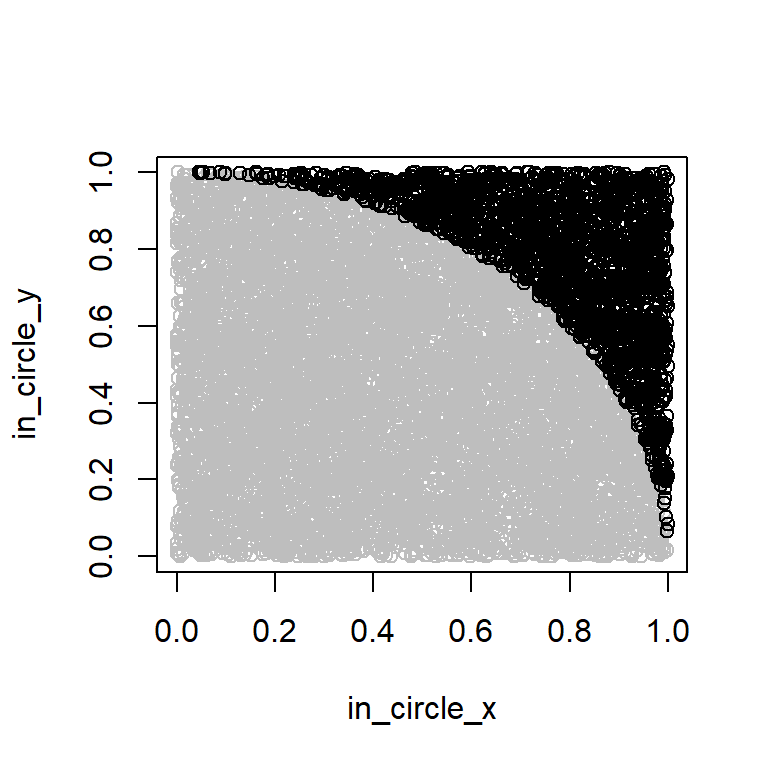
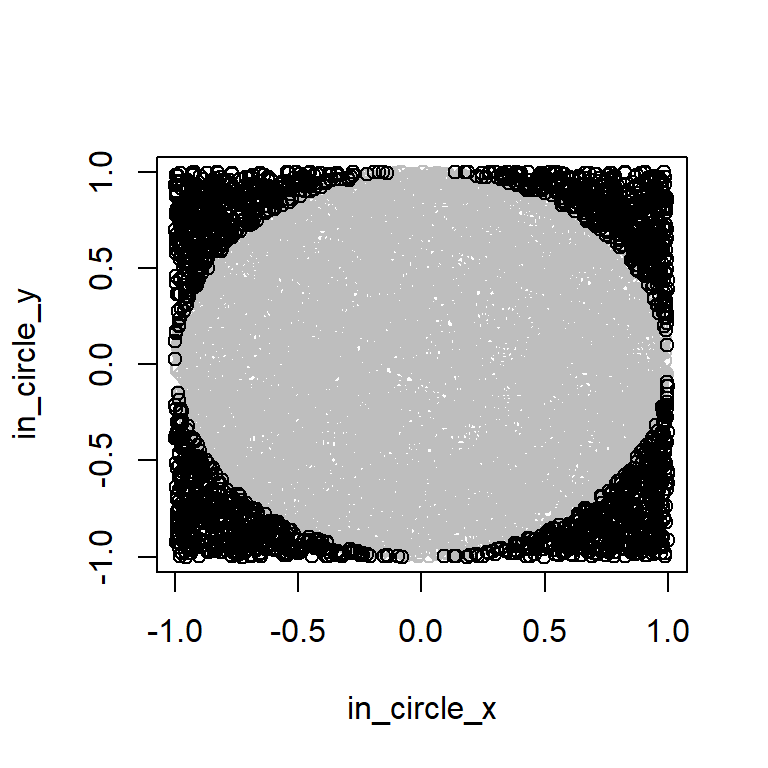
Built site for gh-pages

diff --git a/Lab4/Lab4.html b/Lab4/Lab4.html
@@ -188,7 +188,11 @@ window.Quarto = {
   <li><a href="#lab-4" id="toc-lab-4" class="nav-link active" data-scroll-target="#lab-4">Lab 4</a>
   <ul class="collapse">
   <li><a href="#question-1" id="toc-question-1" class="nav-link" data-scroll-target="#question-1">Question 1</a></li>
-  <li><a href="#question-2-central-limit-theorem-simulation" id="toc-question-2-central-limit-theorem-simulation" class="nav-link" data-scroll-target="#question-2-central-limit-theorem-simulation">Question 2 Central Limit Theorem Simulation</a></li>
+  <li><a href="#question-2-create-a-function-to-add-an-additional-row-to-the-anova-table-output." id="toc-question-2-create-a-function-to-add-an-additional-row-to-the-anova-table-output." class="nav-link" data-scroll-target="#question-2-create-a-function-to-add-an-additional-row-to-the-anova-table-output.">Question 2 Create a function to add an additional row to the ANOVA table output.</a>
+  <ul class="collapse">
+  <li><a href="#anova-output-for-pg.mod" id="toc-anova-output-for-pg.mod" class="nav-link" data-scroll-target="#anova-output-for-pg.mod">anova() output for PG.mod</a></li>
+  <li><a href="#anova_tab-output-for-pg.mod" id="toc-anova_tab-output-for-pg.mod" class="nav-link" data-scroll-target="#anova_tab-output-for-pg.mod">anova_tab() output for PG.mod</a></li>
+  </ul></li>
   </ul></li>
   </ul>
 </nav>
@@ -203,14 +207,14 @@ window.Quarto = {
 <h1>Lab 4</h1>
 <section id="question-1" class="level2">
 <h2 class="anchored" data-anchor-id="question-1">Question 1</h2>
-<p>Estimate the value of <span class="math inline">\(\pi\)</span> by using probability simulation</p>
+<p>Estimate the value of <span class="math inline">\(\pi\)</span> by using probability simulation.</p>
 <ol type="a">
-<li><strong>[20 pts]</strong> Please take random <span class="math inline">\(n\)</span> points (say, <span class="math inline">\(n=10000\)</span>) with in the [0, 1] * [0, 1] square in the Cartesian coordinate system. Then determine if the point is in the upper right quarter circle centered at the origin of radius 1. Calculate the probability of fall in the quarter-circle, which should be close to <span class="math inline">\(\frac{\pi}{4}\)</span>.</li>
+<li><strong>[20 pts]</strong> Use <code>set.seed(10)</code>. Please generate a set of <span class="math inline">\(n = 10,000\)</span> random points <span class="math inline">\((x_i, y_i)\)</span>, within the square defined by the Cartesian coordinates <span class="math inline">\([-1, 1] \times [-1, 1]\)</span> . For each point, check if it lies inside a circle with radius 1 centered at the origin. Store the <span class="math inline">\(x\)</span>- and <span class="math inline">\(y\)</span>-coordinates of points inside the circle in vectors <code>in_circle_x</code> and <code>in_circle_y</code>, respectively. Similarly, store the coordinates of points outside the circle in vectors <code>out_circle_x</code> and <code>out_circle_y</code>.</li>
 </ol>
 <p>[Hints:</p>
 <ol type="1">
-<li>You may use <code>runif()</code> for taking the random points.</li>
-<li>You may use <strong>if…else</strong> statement and <strong>for</strong> loop.]</li>
+<li>You may use <code>runif()</code> for taking the random points. Use <code>?runif()</code> if needed.</li>
+<li>You may use <strong>if…else</strong> statement and <strong>for</strong> loop for this question.]</li>
 </ol>
 <div style="height:10px;">
 
@@ -218,7 +222,7 @@ window.Quarto = {
 <ol start="2" type="a">
 <li><strong>[10 pts]</strong> Draw the simulation points using <code>plot()</code> and <code>points()</code> by coloring the in-circle points <strong>blue</strong> and out-circle points <strong>orange</strong>.</li>
 </ol>
-<p>The plot should be something looks like</p>
+<p>The plot should be resemble something like this with the required color.</p>
 <div class="cell">
 <div class="cell-output-display">
 <div>
@@ -228,96 +232,160 @@ window.Quarto = {
 </div>
 </div>
 </div>
-<p>[Hint: The following example might be helpful.]</p>
-<div class="cell">
-<div class="sourceCode cell-code" id="cb1"><pre class="sourceCode r code-with-copy"><code class="sourceCode r"><span id="cb1-1"><a href="#cb1-1" aria-hidden="true" tabindex="-1"></a><span class="co"># Generate some data</span></span>
-<span id="cb1-2"><a href="#cb1-2" aria-hidden="true" tabindex="-1"></a>x <span class="ot">=</span> <span class="dv">1</span><span class="sc">:</span><span class="dv">10</span></span>
-<span id="cb1-3"><a href="#cb1-3" aria-hidden="true" tabindex="-1"></a>y <span class="ot">=</span> <span class="dv">1</span> <span class="sc">+</span> x</span>
-<span id="cb1-4"><a href="#cb1-4" aria-hidden="true" tabindex="-1"></a>u <span class="ot">=</span> <span class="dv">1</span><span class="sc">:</span><span class="dv">10</span></span>
-<span id="cb1-5"><a href="#cb1-5" aria-hidden="true" tabindex="-1"></a>v <span class="ot">=</span> <span class="dv">12</span> <span class="sc">-</span> u</span>
-<span id="cb1-6"><a href="#cb1-6" aria-hidden="true" tabindex="-1"></a></span>
-<span id="cb1-7"><a href="#cb1-7" aria-hidden="true" tabindex="-1"></a><span class="co"># Use plot() and points()</span></span>
-<span id="cb1-8"><a href="#cb1-8" aria-hidden="true" tabindex="-1"></a><span class="fu">plot</span>(x, y, <span class="at">col =</span> <span class="st">"blue"</span>) <span class="co"># Draw points with coordinates (x, y)</span></span>
-<span id="cb1-9"><a href="#cb1-9" aria-hidden="true" tabindex="-1"></a><span class="fu">points</span>(u, v, <span class="at">col =</span> <span class="st">"orange"</span>) <span class="co"># Add points to the plot above.</span></span></code><button title="Copy to Clipboard" class="code-copy-button"><i class="bi"></i></button></pre></div>
-<div class="cell-output-display">
-<div>
-<figure class="figure">
-<p><img src="Lab4_files/figure-html/unnamed-chunk-3-1.png" style="width:30.0%;height:30.0%" class="figure-img"></p>
-</figure>
-</div>
-</div>
-</div>
+<p>[Hints:</p>
+<ol type="1">
+<li>Use <code>plot()</code> to draw points.</li>
+<li>Use <code>points()</code> to add points to the plot above.</li>
+<li>Use <code>col = "blue"</code> and <code>col = "orange"</code> for the colors. ]</li>
+</ol>
+<!-- ```{r, fig.width=4, fig.height=4} -->
+<!-- # Generate some data -->
+<!-- x = 1:10 -->
+<!-- y = 1 + x -->
+<!-- u = 1:10 -->
+<!-- v = 12 - u -->
+<!-- # Use plot() and points() -->
+<!-- plot(x, y, col = "blue") # Draw points with coordinates (x, y) -->
+<!-- points(u, v, col = "orange") # Add points to the plot above. -->
+<!-- ``` -->
 <div style="height:10px;">
 
 </div>
 <ol start="3" type="a">
-<li><strong>[5 pts]</strong> Based on the probability calculated in (a), estimate the value of <span class="math inline">\(\pi\)</span>.</li>
+<li><strong>[10 pts]</strong> Complete the blanks below.</li>
+</ol>
+<!-- for calculating the probability of a point falling within the circle. -->
+<p>There are two different ways to calculate the probability of points fall in the circle.</p>
+<p>: The probability <span class="math inline">\(= \frac{\text{Number of points in the in\_circle\_x (or in\_circle\_y)}}{\text{Total number of points in x (or y)}}\)</span>.</p>
+<div class="cell">
+<div class="sourceCode cell-code" id="cb1"><pre class="sourceCode r code-with-copy"><code class="sourceCode r"><span id="cb1-1"><a href="#cb1-1" aria-hidden="true" tabindex="-1"></a><span class="do">### Use R code to find the probability using Method I</span></span></code><button title="Copy to Clipboard" class="code-copy-button"><i class="bi"></i></button></pre></div>
+</div>
+<p>: The probability <span class="math inline">\(=\frac{\text{Area of circle}}{\text{Area of square}} = \frac{   }{   }\)</span>. [Hint: The radius of the circle is 1, and the side-length of the square is <span class="math inline">\(1-(-1) = 2\)</span>. ]</p>
+<div style="height:10px;">
+
+</div>
+<ol start="4" type="a">
+<li><strong>[5 pts]</strong> Based on the result in (c), estimate the value of <span class="math inline">\(\pi\)</span>.</li>
 </ol>
 <div style="height:30px;">
 
 </div>
 </section>
-<section id="question-2-central-limit-theorem-simulation" class="level2">
-<h2 class="anchored" data-anchor-id="question-2-central-limit-theorem-simulation">Question 2 Central Limit Theorem Simulation</h2>
-<p>The Central Limit Theorem (CLT) is one of the most important concepts in statistics. It states that for any population distribution with a mean <span class="math inline">\(\mu\)</span> and standard deviation <span class="math inline">\(\sigma\)</span>, if we randomly select a sufficiently large sample (sample size <span class="math inline">\(n\)</span>), calculate its mean, and repeat this process a large number of times (<span class="math inline">\(t\)</span> times), the distribution of these sample means will approximate a normal distribution centered around <span class="math inline">\(\mu\)</span>. The standard deviation of this distribution, known as the Standard Error, will be <span class="math inline">\(\frac{\sigma}{\sqrt{n}}\)</span>.</p>
-<p>Please execute the following code to obtain the <code>waiting.time</code> vector, which contains the waiting times (in minutes) for <em>Pirates of the Caribbean</em> at Disney World. We will use the 5168 waiting time values as the population data.</p>
+<section id="question-2-create-a-function-to-add-an-additional-row-to-the-anova-table-output." class="level2">
+<h2 class="anchored" data-anchor-id="question-2-create-a-function-to-add-an-additional-row-to-the-anova-table-output.">Question 2 Create a function to add an additional row to the ANOVA table output.</h2>
+<p>Below are the codes you’ll learn in STAT 425. But we will set aside the interpretation of the codes and results for now. In this question, we’ll only focus on adding an additional row to the ANOVA Table output.</p>
+<p>To be specific, in this question, we will work on defining a new function called <code>anova_tab()</code>. So that, compare to the default <code>anova()</code> below, <code>anova_tab()</code> can have the additional row needed. Please complete this task by addressing the following subquestions.</p>
 <div class="cell">
-<div class="sourceCode cell-code" id="cb2"><pre class="sourceCode r code-with-copy"><code class="sourceCode r"><span id="cb2-1"><a href="#cb2-1" aria-hidden="true" tabindex="-1"></a><span class="cf">if</span>(<span class="sc">!</span><span class="fu">require</span>(<span class="st">"devtools"</span>, <span class="at">character.only =</span> <span class="cn">TRUE</span>)) <span class="fu">install.packages</span>(<span class="st">"devtools"</span>)</span>
-<span id="cb2-2"><a href="#cb2-2" aria-hidden="true" tabindex="-1"></a><span class="fu">library</span>(devtools)</span>
-<span id="cb2-3"><a href="#cb2-3" aria-hidden="true" tabindex="-1"></a><span class="cf">if</span>(<span class="sc">!</span><span class="fu">require</span>(<span class="st">"touringplans"</span>, <span class="at">character.only =</span> <span class="cn">TRUE</span>)){</span>
-<span id="cb2-4"><a href="#cb2-4" aria-hidden="true" tabindex="-1"></a>  devtools<span class="sc">::</span><span class="fu">install_github</span>(<span class="st">"LucyMcGowan/touringplans"</span>)</span>
-<span id="cb2-5"><a href="#cb2-5" aria-hidden="true" tabindex="-1"></a>} </span>
-<span id="cb2-6"><a href="#cb2-6" aria-hidden="true" tabindex="-1"></a><span class="fu">library</span>(touringplans)</span>
-<span id="cb2-7"><a href="#cb2-7" aria-hidden="true" tabindex="-1"></a></span>
-<span id="cb2-8"><a href="#cb2-8" aria-hidden="true" tabindex="-1"></a>waiting.time <span class="ot">=</span> </span>
-<span id="cb2-9"><a href="#cb2-9" aria-hidden="true" tabindex="-1"></a>  <span class="fu">na.omit</span>(touringplans_2018<span class="sc">$</span>wait_minutes_posted_avg</span>
-<span id="cb2-10"><a href="#cb2-10" aria-hidden="true" tabindex="-1"></a>          [touringplans_2018<span class="sc">$</span>attraction_name <span class="sc">==</span>  <span class="st">"Pirates of the Caribbean"</span>])</span>
-<span id="cb2-11"><a href="#cb2-11" aria-hidden="true" tabindex="-1"></a></span>
-<span id="cb2-12"><a href="#cb2-12" aria-hidden="true" tabindex="-1"></a><span class="fu">hist</span>(waiting.time)</span></code><button title="Copy to Clipboard" class="code-copy-button"><i class="bi"></i></button></pre></div>
-<div class="cell-output-display">
-<div>
-<figure class="figure">
-<p><img src="Lab4_files/figure-html/unnamed-chunk-4-1.png" style="width:30.0%;height:30.0%" class="figure-img"></p>
-</figure>
+<div class="sourceCode cell-code" id="cb2"><pre class="sourceCode r code-with-copy"><code class="sourceCode r"><span id="cb2-1"><a href="#cb2-1" aria-hidden="true" tabindex="-1"></a>PG.mod <span class="ot">&lt;-</span> <span class="fu">lm</span>(weight <span class="sc">~</span> group, <span class="at">data =</span> PlantGrowth) <span class="co"># PG.mod is an lm object</span></span></code><button title="Copy to Clipboard" class="code-copy-button"><i class="bi"></i></button></pre></div>
 </div>
+<section id="anova-output-for-pg.mod" class="level3">
+<h3 class="anchored" data-anchor-id="anova-output-for-pg.mod">anova() output for PG.mod</h3>
+<div class="cell">
+<div class="sourceCode cell-code" id="cb3"><pre class="sourceCode r code-with-copy"><code class="sourceCode r"><span id="cb3-1"><a href="#cb3-1" aria-hidden="true" tabindex="-1"></a>PG.mod_aov <span class="ot">&lt;-</span> <span class="fu">anova</span>(PG.mod)</span>
+<span id="cb3-2"><a href="#cb3-2" aria-hidden="true" tabindex="-1"></a>PG.mod_aov</span>
+<span id="cb3-3"><a href="#cb3-3" aria-hidden="true" tabindex="-1"></a><span class="co">#&gt; Analysis of Variance Table</span></span>
+<span id="cb3-4"><a href="#cb3-4" aria-hidden="true" tabindex="-1"></a><span class="co">#&gt; </span></span>
+<span id="cb3-5"><a href="#cb3-5" aria-hidden="true" tabindex="-1"></a><span class="co">#&gt; Response: weight</span></span>
+<span id="cb3-6"><a href="#cb3-6" aria-hidden="true" tabindex="-1"></a><span class="co">#&gt;           Df  Sum Sq Mean Sq F value  Pr(&gt;F)  </span></span>
+<span id="cb3-7"><a href="#cb3-7" aria-hidden="true" tabindex="-1"></a><span class="co">#&gt; group      2  3.7663  1.8832  4.8461 0.01591 *</span></span>
+<span id="cb3-8"><a href="#cb3-8" aria-hidden="true" tabindex="-1"></a><span class="co">#&gt; Residuals 27 10.4921  0.3886                  </span></span>
+<span id="cb3-9"><a href="#cb3-9" aria-hidden="true" tabindex="-1"></a><span class="co">#&gt; ---</span></span>
+<span id="cb3-10"><a href="#cb3-10" aria-hidden="true" tabindex="-1"></a><span class="co">#&gt; Signif. codes:  0 '***' 0.001 '**' 0.01 '*' 0.05 '.' 0.1 ' ' 1</span></span></code><button title="Copy to Clipboard" class="code-copy-button"><i class="bi"></i></button></pre></div>
 </div>
-<div class="sourceCode cell-code" id="cb3"><pre class="sourceCode r code-with-copy"><code class="sourceCode r"><span id="cb3-1"><a href="#cb3-1" aria-hidden="true" tabindex="-1"></a></span>
-<span id="cb3-2"><a href="#cb3-2" aria-hidden="true" tabindex="-1"></a><span class="fu">set.seed</span>(<span class="dv">1</span>)  <span class="co"># for replication purposes</span></span></code><button title="Copy to Clipboard" class="code-copy-button"><i class="bi"></i></button></pre></div>
+</section>
+<section id="anova_tab-output-for-pg.mod" class="level3">
+<h3 class="anchored" data-anchor-id="anova_tab-output-for-pg.mod">anova_tab() output for PG.mod</h3>
+<div class="cell">
+<div class="sourceCode cell-code" id="cb4"><pre class="sourceCode r code-with-copy"><code class="sourceCode r"><span id="cb4-1"><a href="#cb4-1" aria-hidden="true" tabindex="-1"></a><span class="fu">anova_tab</span>(PG.mod)</span>
+<span id="cb4-2"><a href="#cb4-2" aria-hidden="true" tabindex="-1"></a><span class="co">#&gt; Analysis of Variance Table</span></span>
+<span id="cb4-3"><a href="#cb4-3" aria-hidden="true" tabindex="-1"></a><span class="co">#&gt; </span></span>
+<span id="cb4-4"><a href="#cb4-4" aria-hidden="true" tabindex="-1"></a><span class="co">#&gt; Response: weight</span></span>
+<span id="cb4-5"><a href="#cb4-5" aria-hidden="true" tabindex="-1"></a><span class="co">#&gt;           Df  Sum Sq Mean Sq F value  Pr(&gt;F)  </span></span>
+<span id="cb4-6"><a href="#cb4-6" aria-hidden="true" tabindex="-1"></a><span class="co">#&gt; group      2  3.7663  1.8832  4.8461 0.01591 *</span></span>
+<span id="cb4-7"><a href="#cb4-7" aria-hidden="true" tabindex="-1"></a><span class="co">#&gt; Residuals 27 10.4921  0.3886                  </span></span>
+<span id="cb4-8"><a href="#cb4-8" aria-hidden="true" tabindex="-1"></a><span class="co">#&gt; Total     29 14.2584                          </span></span>
+<span id="cb4-9"><a href="#cb4-9" aria-hidden="true" tabindex="-1"></a><span class="co">#&gt; ---</span></span>
+<span id="cb4-10"><a href="#cb4-10" aria-hidden="true" tabindex="-1"></a><span class="co">#&gt; Signif. codes:  0 '***' 0.001 '**' 0.01 '*' 0.05 '.' 0.1 ' ' 1</span></span></code><button title="Copy to Clipboard" class="code-copy-button"><i class="bi"></i></button></pre></div>
 </div>
 <ol type="a">
-<li><strong>[5 pts]</strong> Is the distribution above left-skewed? Right-skewed? Or symmetric? Find the population mean waiting time <span class="math inline">\(\mu\)</span> and population standard deviation <span class="math inline">\(\sigma\)</span>.</li>
+<li><strong>[5 pts]</strong> Check if <code>PG.mod_aov</code> is a list. Then check if <code>PG.mod_aov</code> is a data frame. If the object is a data frame, determine its dimension (i.e., the number of rows and columns).</li>
 </ol>
-<div style="height:10px;">
-
-</div>
 <ol start="2" type="a">
-<li><strong>[10 pts]</strong> Let the sample size <span class="math inline">\(n = 2\)</span>. In other words,</li>
+<li><strong>[10 pts]</strong> Add the third row to <code>PG.mod_aov</code> where</li>
 </ol>
 <ul>
-<li><p>Step 1: Take a random sample of <em>two</em> waiting times <strong>with replacement</strong> from the <code>waiting.time</code> vector each time. You may use <code>sample(..., replace = TRUE)</code> for this step.</p></li>
-<li><p>Step 2: Find the average of the two sampled waiting times.</p>
-<p>Repeat Step 1 and 2 for <span class="math inline">\(t = 1000\)</span> times and save the means as the vector <code>sample.mean</code>. Then use <code>hist()</code> to draw the histogram of <code>sample.mean</code>. Is the distribution left-skewed, right-skewed, or symmetric?</p></li>
+<li>the first element is the sum of the <em>two</em> “DF” values,</li>
+<li>the second element is the sum of the <em>two</em> “Sum Sq” values,</li>
+<li>the remaining three elements are NA,</li>
+<li>and name this new row “Total”.</li>
 </ul>
-<div style="height:10px;">
-
-</div>
 <ol start="3" type="a">
-<li><strong>[5 pts]</strong> Continue with part (b). Calculate the mean and standard deviation of <code>sample.mean</code> vector. Are these values close to <span class="math inline">\(\mu\)</span> and <span class="math inline">\(\frac{\sigma}{\sqrt{n}}\)</span>, where <span class="math inline">\(\mu\)</span> and <span class="math inline">\(\sigma\)</span> are from part (a), respectively? [Please note that the values do not need to be exact the same; being close enough is sufficient.]</li>
+<li><strong>[10 pts]</strong> Another regression example using <code>mtcars</code>,</li>
 </ol>
-<div style="height:10px;">
-
+<div class="cell">
+<div class="sourceCode cell-code" id="cb5"><pre class="sourceCode r code-with-copy"><code class="sourceCode r"><span id="cb5-1"><a href="#cb5-1" aria-hidden="true" tabindex="-1"></a>mt.mod <span class="ot">&lt;-</span> <span class="fu">lm</span>(mpg <span class="sc">~</span> hp <span class="sc">+</span> wt, <span class="at">data =</span> mtcars) <span class="co"># mt.mod is an lm object</span></span>
+<span id="cb5-2"><a href="#cb5-2" aria-hidden="true" tabindex="-1"></a>mt.mod_aov <span class="ot">&lt;-</span> <span class="fu">anova</span>(mt.mod)</span>
+<span id="cb5-3"><a href="#cb5-3" aria-hidden="true" tabindex="-1"></a>mt.mod_aov</span>
+<span id="cb5-4"><a href="#cb5-4" aria-hidden="true" tabindex="-1"></a><span class="co">#&gt; Analysis of Variance Table</span></span>
+<span id="cb5-5"><a href="#cb5-5" aria-hidden="true" tabindex="-1"></a><span class="co">#&gt; </span></span>
+<span id="cb5-6"><a href="#cb5-6" aria-hidden="true" tabindex="-1"></a><span class="co">#&gt; Response: mpg</span></span>
+<span id="cb5-7"><a href="#cb5-7" aria-hidden="true" tabindex="-1"></a><span class="co">#&gt;           Df Sum Sq Mean Sq F value    Pr(&gt;F)    </span></span>
+<span id="cb5-8"><a href="#cb5-8" aria-hidden="true" tabindex="-1"></a><span class="co">#&gt; hp         1 678.37  678.37 100.862 5.987e-11 ***</span></span>
+<span id="cb5-9"><a href="#cb5-9" aria-hidden="true" tabindex="-1"></a><span class="co">#&gt; wt         1 252.63  252.63  37.561 1.120e-06 ***</span></span>
+<span id="cb5-10"><a href="#cb5-10" aria-hidden="true" tabindex="-1"></a><span class="co">#&gt; Residuals 29 195.05    6.73                      </span></span>
+<span id="cb5-11"><a href="#cb5-11" aria-hidden="true" tabindex="-1"></a><span class="co">#&gt; ---</span></span>
+<span id="cb5-12"><a href="#cb5-12" aria-hidden="true" tabindex="-1"></a><span class="co">#&gt; Signif. codes:  0 '***' 0.001 '**' 0.01 '*' 0.05 '.' 0.1 ' ' 1</span></span></code><button title="Copy to Clipboard" class="code-copy-button"><i class="bi"></i></button></pre></div>
 </div>
+<p>Add a <strong>fourth</strong> row to <code>mt.mod_aov</code> where</p>
+<ul>
+<li>the first element is the sum of the <em>three</em> “DF” values,</li>
+<li>the second element is the sum of the <em>three</em> “Sum Sq” values,</li>
+<li>the remaining three elements are NA,</li>
+<li>and name this new row “Total”.</li>
+</ul>
+<p>[Hint: To make the code more generalizable, you may use <code>sum(mt.mod_aov[1:3, 1])</code>, instead of <code>mt.mod_aov[1, 1] + mt.mod_aov[2, 1] + mt.mod_aov[3, 1]</code>.]</p>
 <ol start="4" type="a">
-<li><strong>[20 pts]</strong> Write a function named <code>sample.mean.n.t</code> for a given <span class="math inline">\(n\)</span> and <span class="math inline">\(t\)</span>, get the <code>sample.mean</code> vector of the means. Try the function with <span class="math inline">\(n = 50\)</span> and <span class="math inline">\(t = 2000\)</span>. Use <code>hist()</code> to draw the histogram of the <span class="math inline">\(2000\)</span> means. Is the distribution left skewed, right skewed, or symmetric?</li>
+<li><strong>[10 pts]</strong> Part (b) and (c) provide concrete examples. Please create a function called <code>anova_tab()</code> that takes any <code>lm</code> object (such as <code>PG.mod</code>, <code>mt.mod</code> in this question) as input and displays the ANOVA summary table, including the additional “Total” row. Then use <code>anova_tab(PG.mod)</code> and <code>anova_tab(mt.mod)</code> to test the function. Then use <code>anova_tab(att.mod)</code> below to test the <code>anova_tab()</code> function.</li>
 </ol>
-<div style="height:10px;">
-
+<div class="cell">
+<div class="sourceCode cell-code" id="cb6"><pre class="sourceCode r code-with-copy"><code class="sourceCode r"><span id="cb6-1"><a href="#cb6-1" aria-hidden="true" tabindex="-1"></a>att.mod <span class="ot">&lt;-</span> <span class="fu">lm</span>(rating <span class="sc">~</span> complaints <span class="sc">+</span> privileges <span class="sc">+</span> learning <span class="sc">+</span> raises, <span class="at">data =</span> attitude)</span></code><button title="Copy to Clipboard" class="code-copy-button"><i class="bi"></i></button></pre></div>
 </div>
-<ol start="5" type="a">
-<li><strong>[5 pts]</strong> Continue with part (d). Find the mean and standard deviation of <code>sample.mean</code>. Are these values close to <span class="math inline">\(\mu\)</span> and <span class="math inline">\(\frac{\sigma}{\sqrt{n}}\)</span>, where <span class="math inline">\(\mu\)</span> and <span class="math inline">\(\sigma\)</span> are from part (a)?</li>
-</ol>
+<!-- ## Question 2 Central Limit Theorem Simulation -->
+<!-- The Central Limit Theorem (CLT) is one of the most important concepts in statistics. It states that for any population distribution with a mean $\mu$ and standard deviation $\sigma$, if we randomly select a sufficiently large sample (sample size $n$), calculate its mean, and repeat this process a large number of times ($t$ times), the distribution of these sample means will approximate a normal distribution centered around $\mu$. The standard deviation of this distribution, known as the Standard Error, will be $\frac{\sigma}{\sqrt{n}}$.  -->
+<!-- Please execute the following code to obtain the `waiting.time` vector, which contains the waiting times (in minutes) for *Pirates of the Caribbean* at Disney World. We will use the 5168 waiting time values as the population data. -->
+<!-- ```{r} -->
+<!-- if(!require("devtools", character.only = TRUE)) install.packages("devtools") -->
+<!-- library(devtools) -->
+<!-- if(!require("touringplans", character.only = TRUE)){ -->
+<!--   devtools::install_github("LucyMcGowan/touringplans") -->
+<!-- }  -->
+<!-- library(touringplans) -->
+<!-- waiting.time =  -->
+<!--   na.omit(touringplans_2018$wait_minutes_posted_avg -->
+<!--           [touringplans_2018$attraction_name ==  "Pirates of the Caribbean"]) -->
+<!-- hist(waiting.time) -->
+<!-- set.seed(1)  # for replication purposes -->
+<!-- ``` -->
+<!-- (a) **[5 pts]** Is the distribution above left-skewed? Right-skewed? Or symmetric? Find the population mean waiting time $\mu$ and population standard deviation $\sigma$. -->
+<!-- ::: {style="height:10px;"} -->
+<!-- ::: -->
+<!-- (b) **[10 pts]** Let the sample size $n = 2$. In other words,  -->
+<!-- * Step 1: Take a random sample of *two* waiting times **with replacement** from the `waiting.time` vector each time. You may use `sample(..., replace = TRUE)` for this step.  -->
+<!-- * Step 2: Find the average of the two sampled waiting times.  -->
+<!--   Repeat Step 1 and 2 for $t = 1000$ times and save the means as the vector `sample.mean`. Then use `hist()` to draw the histogram of `sample.mean`. Is the distribution left-skewed, right-skewed, or symmetric? -->
+<!-- ::: {style="height:10px;"} -->
+<!-- ::: -->
+<!-- (c) **[5 pts]** Continue with part (b). Calculate the mean and standard deviation of `sample.mean` vector. Are these values close to $\mu$ and $\frac{\sigma}{\sqrt{n}}$, where $\mu$ and $\sigma$ are from part (a), respectively?  -->
+<!-- [Please note that the values do not need to be exact the same; being close enough is sufficient.] -->
+<!-- ::: {style="height:10px;"} -->
+<!-- ::: -->
+<!-- (d) **[20 pts]** Write a function named `sample.mean.n.t` for a given $n$ and $t$, get the `sample.mean` vector of the means. Try the function with $n = 50$ and $t = 2000$. Use `hist()` to draw the histogram of the $2000$ means. Is the distribution left skewed, right skewed, or symmetric? -->
+<!-- ::: {style="height:10px;"} -->
+<!-- ::: -->
+<!-- (e) **[5 pts]** Continue with part (d). Find the mean and standard deviation of `sample.mean`. Are these values close to $\mu$ and  $\frac{\sigma}{\sqrt{n}}$, where $\mu$ and $\sigma$ are from part (a)? -->
 
 
+</section>
 </section>
 </section>
 
@@ -414,7 +482,7 @@ window.document.addEventListener("DOMContentLoaded", function (event) {
   }
     var localhostRegex = new RegExp(/^(?:http|https):\/\/localhost\:?[0-9]*\//);
     var mailtoRegex = new RegExp(/^mailto:/);
-      var filterRegex = new RegExp('/' + window.location.host + '/');
+      var filterRegex = new RegExp("https:\/\/ycjiaweijia\.github\.io\/F24STAT385\/");
     var isInternal = (href) => {
         return filterRegex.test(href) || localhostRegex.test(href) || mailtoRegex.test(href);
     }

diff --git a/05. lablist.html b/05. lablist.html
@@ -139,14 +139,14 @@ ul.task-list li input[type="checkbox"] {
 <li><a href="./Lab1/Lab1.html">Lab 1</a></li>
 <li><a href="./Lab2/Lab2.html">Lab 2</a></li>
 <li><a href="./Lab3/Lab3.html">Lab 3</a></li>
-<li><a href="Lab4/Lab4.qmd">Lab 4</a></li>
+<li><a href="./Lab4/Lab4.html">Lab 4</a></li>
 <li><a href="./Lab5HelpDoc/Lab5HelpDoc.html">Lab 5 Vectorization Help Document</a></li>
 <li><a href="./Lab5/Lab5.html">Lab 5</a></li>
 <li><a href="./Lab6HelpDoc/Lab6HelpDoc.html">Lab 6 Help Document: Illustrate S3 System – U of I Women’s Basketball Team example</a></li>
 <li><a href="./Lab6/Lab6.html">Lab 6</a></li>
-<li><a href="./Lab7/Lab7.html">Lab 7</a></li>
-<li><a href="./Lab8/Lab8.html">Lab 8</a></li>
 </ul>
+<!-- * [Lab 7](Lab7/Lab7.qmd) -->
+<!-- * [Lab 8](Lab8/Lab8.qmd) -->
 
 
 </section>
